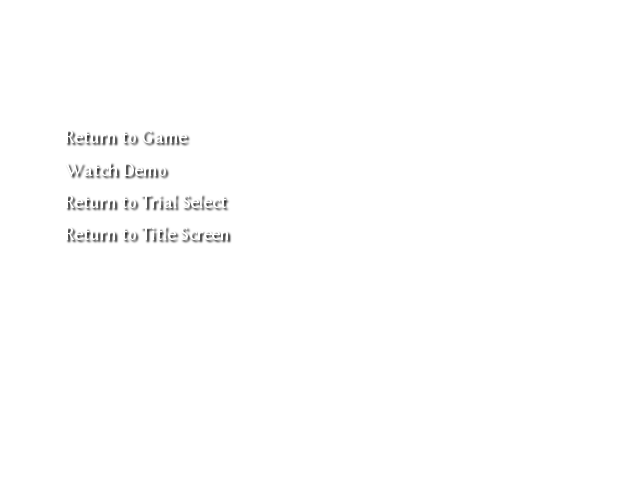
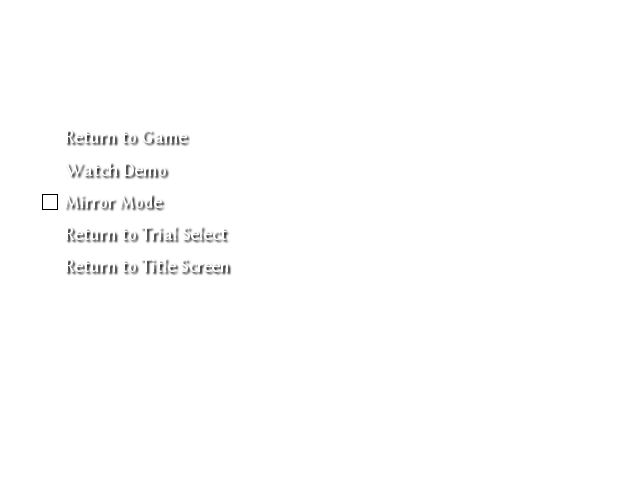
Added mirror mode

Changed region(s): [[0.0938, 0.5312, 0.375, 0.5938], [0.0625, 0.4062, 0.375, 0.4375], [0.2188, 0.4688, 0.375, 0.5]]

diff --git a/modules/TrialMode/Trial/ComboTrial.cpp b/modules/TrialMode/Trial/ComboTrial.cpp
@@ -405,7 +405,7 @@ disableLimit:
 		this->_dummyHit = false;
 	this->_dummyHit |= hit;
 	if (!this->_dummyHit && !this->_finished) {
-		battleMgr.rightCharacterManager.objectBase.position.x = this->_dummyStartPos.x;
+		battleMgr.rightCharacterManager.objectBase.position.x = (this->_mirror ? 1280 - this->_dummyStartPos.x : this->_dummyStartPos.x);
 		if (!this->_jump) {
 			battleMgr.rightCharacterManager.objectBase.position.y = this->_dummyStartPos.y;
 			battleMgr.rightCharacterManager.objectBase.speed.y = 0;
@@ -481,6 +481,8 @@ int ComboTrial::getScore()
 void ComboTrial::_initGameStart()
 {
 	auto &battleMgr = SokuLib::getBattleMgr();
+	float scale = this->_mirror ? -1.f : 1.f;
+	float off = this->_mirror ? 1280.f : 0.f;
 
 	if (this->_currentDoll) {
 		auto obj = battleMgr.leftCharacterManager.objects.list.vector()[battleMgr.leftCharacterManager.objects.list.size - 2];
@@ -491,6 +493,9 @@ void ComboTrial::_initGameStart()
 			obj->animate2();
 		obj->position = this->_dolls[this->_currentDoll - 1].pos;
 		obj->direction = this->_dolls[this->_currentDoll - 1].dir;
+		obj->position.x *= scale;
+		obj->position.x += off;
+		obj->direction = static_cast<SokuLib::Direction>(static_cast<int>(obj->direction * scale));
 		battleMgr.leftCharacterManager.aliceDollCount = 0;
 	} else if (SokuLib::leftChar == SokuLib::CHARACTER_ALICE) {
 		for (auto &obj : battleMgr.leftCharacterManager.objects.list.vector()) {
@@ -513,6 +518,7 @@ void ComboTrial::_initGameStart()
 		this->_currentDoll++;
 		return;
 	}
+	this->_waitCounter = 0;
 	if (this->_first)
 		this->_waitCounter = 180;
 	else if (!this->_playingIntro)
@@ -608,7 +614,7 @@ void ComboTrial::_initGameStart()
 		battleMgr.leftCharacterManager.objectBase.action = SokuLib::ACTION_IDLE;
 		battleMgr.leftCharacterManager.objectBase.animate();
 	}
-	battleMgr.leftCharacterManager.objectBase.position.x = this->_playerStartPos;
+	battleMgr.leftCharacterManager.objectBase.position.x = this->_playerStartPos * scale + off;
 	battleMgr.leftCharacterManager.objectBase.position.y = 0;
 	battleMgr.leftCharacterManager.objectBase.speed.x = 0;
 	battleMgr.leftCharacterManager.objectBase.speed.y = 0;
@@ -637,11 +643,15 @@ void ComboTrial::_initGameStart()
 	else
 		battleMgr.rightCharacterManager.objectBase.action = SokuLib::ACTION_FALLING;
 	battleMgr.rightCharacterManager.objectBase.animate();
-	battleMgr.rightCharacterManager.objectBase.position.x = this->_dummyStartPos.x;
+	battleMgr.rightCharacterManager.objectBase.position.x = this->_dummyStartPos.x * scale + off;
 	battleMgr.rightCharacterManager.objectBase.position.y = this->_dummyStartPos.y;
 	battleMgr.rightCharacterManager.objectBase.speed.x = 0;
 	battleMgr.rightCharacterManager.objectBase.speed.y = 0;
 	battleMgr.rightCharacterManager.objectBase.animate();
+
+	battleMgr.leftCharacterManager.objectBase.direction =
+		battleMgr.rightCharacterManager.objectBase.position.x > battleMgr.leftCharacterManager.objectBase.position.x ?
+		SokuLib::RIGHT : SokuLib::LEFT;
 	battleMgr.rightCharacterManager.objectBase.direction =
 		battleMgr.rightCharacterManager.objectBase.position.x > battleMgr.leftCharacterManager.objectBase.position.x ?
 		SokuLib::LEFT : SokuLib::RIGHT;
@@ -853,6 +863,11 @@ void ComboTrial::_loadPauseAssets()
 	this->_pause.setSize(this->_pause.texture.getSize());
 	this->_pause.rect.width = this->_pause.getSize().x;
 	this->_pause.rect.height = this->_pause.getSize().y;
+
+	this->_tick.texture.loadFromResource(myModule, MAKEINTRESOURCE(68));
+	this->_tick.setSize(this->_tick.texture.getSize());
+	this->_tick.rect.width = this->_tick.getSize().x;
+	this->_tick.rect.height = this->_tick.getSize().y;
 }
 
 int ComboTrial::pauseOnUpdate()
@@ -862,8 +877,8 @@ int ComboTrial::pauseOnUpdate()
 	if (c || SokuLib::inputMgrs.input.b == 1)
 		return SokuLib::playSEWaveBuffer(0x29), false;
 	if (std::abs(SokuLib::inputMgrs.input.verticalAxis) == 1 || (std::abs(SokuLib::inputMgrs.input.verticalAxis) > 36 && SokuLib::inputMgrs.input.verticalAxis % 6 == 0)) {
-		this->_cursorPos += 4 + std::copysign(1, SokuLib::inputMgrs.input.verticalAxis);
-		this->_cursorPos %= 4;
+		this->_cursorPos += 5 + std::copysign(1, SokuLib::inputMgrs.input.verticalAxis);
+		this->_cursorPos %= 5;
 		SokuLib::playSEWaveBuffer(0x27);
 	}
 	if (SokuLib::inputMgrs.input.a == 1)
@@ -879,6 +894,10 @@ int ComboTrial::pauseOnRender() const
 	}, {256, 16});
 	this->_title.draw();
 	this->_pause.draw();
+	if (this->_mirror) {
+		this->_tick.setPosition({42, 191});
+		this->_tick.draw();
+	}
 	return true;
 }
 
@@ -889,17 +908,25 @@ bool ComboTrial::_pauseOnKeyPressed()
 		SokuLib::playSEWaveBuffer(0x28);
 		return false;
 	case 1:
+		if (this->_waitCounter)
+			return SokuLib::playSEWaveBuffer(0x29), false;
 		SokuLib::playSEWaveBuffer(0x28);
 		this->_playComboAfterIntro = true;
-		this->_initGameStart();
 		return false;
 	case 2:
+		if (this->_waitCounter)
+			return SokuLib::playSEWaveBuffer(0x29), false;
+		SokuLib::playSEWaveBuffer(0x28);
+		this->_mirror = !this->_mirror;
+		this->_attempts--;
+		this->_initGameStart();
+		return true;
+	case 3:
 		SokuLib::playSEWaveBuffer(0x28);
 		this->_quit = true;
 		this->_next = SokuLib::SCENE_SELECT;
 		return false;
-	case 3:
-		SokuLib::playSEWaveBuffer(0x28);
+	case 4:
 		SokuLib::playSEWaveBuffer(0x28);
 		this->_quit = true;
 		this->_next = SokuLib::SCENE_TITLE;

diff --git a/modules/TrialMode/Trial/ComboTrial.hpp b/modules/TrialMode/Trial/ComboTrial.hpp
@@ -100,9 +100,11 @@ private:
 
 	//Pause
 	bool _quit = false;
+	bool _mirror = false;
 	unsigned _cursorPos = 0;
 	SokuLib::DrawUtils::Sprite _title;
 	SokuLib::DrawUtils::Sprite _pause;
+	mutable SokuLib::DrawUtils::Sprite _tick;
 
 	void _playIntro();
 	void _initGameStart();
